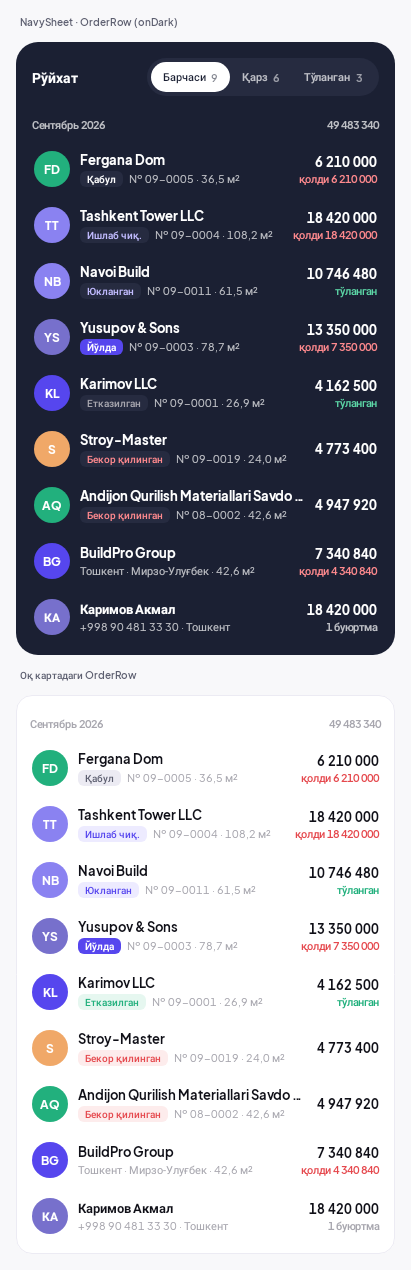
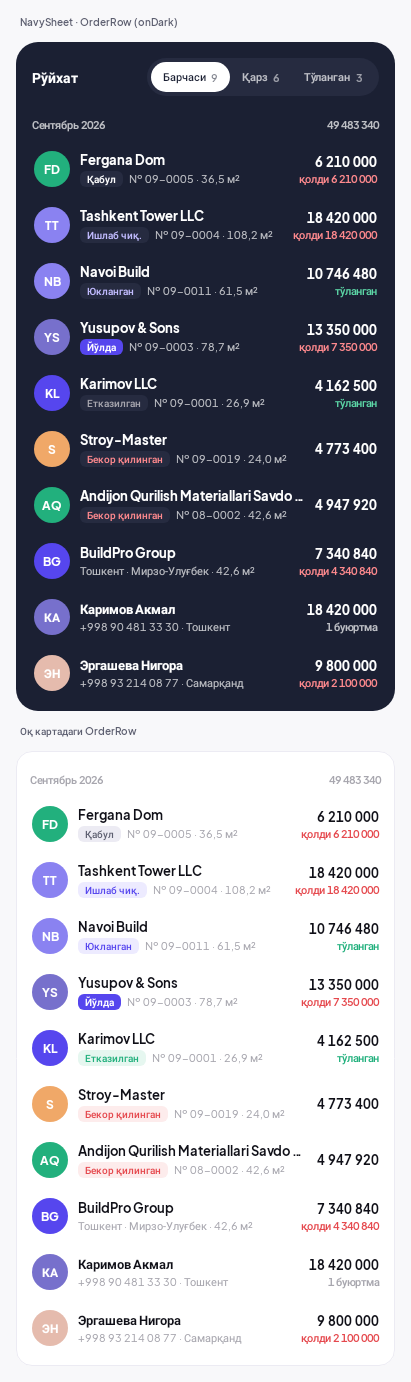
Fix(designsystem) · filled segment labels ellipsize; Task-2 review nits
A `fill = true` segment is only its third of the track, and «Тасдиқланган 3»
does not fit that third on a 360 dp phone at font scale 1,3 — the label had
`maxLines = 1` with no `overflow`, so it was cut mid-glyph. Ellipsize instead.
Hug mode is untouched (an item is exactly its label there), which is why
`ds_controls_light` is byte-identical.

Also the three nits Task 2's review carried:
- the BrandMark strings sat inside the DetailPanel comment's span;
- `OrderRow` gains a sample holding a debt AND a `trailing` line, drawing the
  rule that the debt wins and only one line is ever stated under the amount;
- the 75 dp compact-pill pin now says at the assert that Robolectric's
  substituted font is the reason it is not the prototype's 70.

New baselines: ds_segments_fill_w360, ds_segments_fill_font13.

diff --git a/android/core/designsystem/src/test/kotlin/uz/etalon/crm/core/designsystem/ControlsScreenshotTest.kt b/android/core/designsystem/src/test/kotlin/uz/etalon/crm/core/designsystem/ControlsScreenshotTest.kt
@@ -104,6 +104,25 @@ class ControlsScreenshotTest {
     }
 
     /**
+     * The filled track where it is actually tightest: a 360 dp phone, which is the narrowest
+     * device this app ships to. Each of the three tabs gets ~111 dp, and «Тасдиқланган 3» is
+     * wider than that — so this frame is where the label's ellipsis has to appear rather than a
+     * letter cut in half. Compare with the same row in `ds_controls_light`, where 411 dp fits it.
+     */
+    @Test @Config(qualifiers = "w360dp-h780dp") fun filledSegmentsW360() {
+        rule.setContent { EtalonTheme { FilledSegments() } }
+        rule.onRoot().captureRoboImage("screenshots/ds_segments_fill_w360.png")
+    }
+
+    /** The same 360 dp track at the accessibility font scale the app supports — the app's true
+     *  worst case, and the only frame in which the labels actually run out of room. This is what
+     *  the `overflow` on the label buys: «Тасдиқланган» ends in «…» instead of half a «н». */
+    @Test @Config(qualifiers = "w360dp-h780dp", fontScale = 1.3f) fun filledSegmentsLargeFont() {
+        rule.setContent { EtalonTheme { FilledSegments() } }
+        rule.onRoot().captureRoboImage("screenshots/ds_segments_fill_font13.png")
+    }
+
+    /**
      * What `fill = true` claims, in numbers rather than in a picture: the track spans its parent —
      * 379 dp inside a 411 dp frame's 16 dp card margins — and the tabs divide it evenly, so the
      * selected pill does not move when the operator switches tabs. Rounding may hand one tab a
@@ -125,6 +144,18 @@ class ControlsScreenshotTest {
         val trackDp = widths.sum() / rule.density.density + 8f
         assertTrue("the track measures %.1f dp, not the card's 379".format(trackDp), kotlin.math.abs(trackDp - 379f) <= 1f)
     }
+}
+
+/** `2b-payments.png`'s filter on its own, on the page margins the payments screen gives it. */
+@Composable
+private fun FilledSegments() = Column(
+    Modifier.fillMaxWidth().background(EtalonColors.page)
+        .padding(horizontal = EtalonSpace.cardMargin, vertical = 16.dp),
+    verticalArrangement = Arrangement.spacedBy(10.dp),
+) {
+    SegmentedControl(PAYMENT_SEGMENTS, selectedIndex = 0, onSelect = {}, onNavy = false, fill = true)
+    SegmentedControl(PAYMENT_SEGMENTS, selectedIndex = 1, onSelect = {}, onNavy = false, fill = true)
+    SegmentedControl(PAYMENT_SEGMENTS, selectedIndex = 2, onSelect = {}, onNavy = false, fill = true)
 }
 
 @Composable

diff --git a/android/core/designsystem/src/main/kotlin/uz/etalon/crm/core/designsystem/components/SegmentedControl.kt b/android/core/designsystem/src/main/kotlin/uz/etalon/crm/core/designsystem/components/SegmentedControl.kt
@@ -16,6 +16,7 @@ import androidx.compose.ui.Alignment
 import androidx.compose.ui.Modifier
 import androidx.compose.ui.draw.clip
 import androidx.compose.ui.semantics.Role
+import androidx.compose.ui.text.style.TextOverflow
 import androidx.compose.ui.unit.dp
 import uz.etalon.crm.core.designsystem.theme.EtalonColors
 import uz.etalon.crm.core.designsystem.theme.EtalonShapes
@@ -89,7 +90,12 @@ fun SegmentedControl(
             horizontalArrangement = if (fill) Arrangement.Center else Arrangement.Start,
             verticalAlignment = Alignment.CenterVertically,
         ) {
-            Text(item.label, style = EtalonType.labelSm, color = fg, maxLines = 1)
+            // Ellipsis, not clip: under `fill` an item is only its third of the track, and on a
+            // 360 dp phone at font scale 1,3 «Тасдиқланган» no longer fits it. A label cut
+            // mid-glyph reads as a rendering fault; a cut one that ends in «…» reads as a label.
+            // In hug mode the item is exactly its label, so this can never fire there — the
+            // `ds_controls_light` rows above the filled samples are byte-identical either way.
+            Text(item.label, style = EtalonType.labelSm, color = fg, maxLines = 1, overflow = TextOverflow.Ellipsis)
             if (item.count != null) {
                 Text(
                     "${item.count}",

diff --git a/android/core/designsystem/src/test/kotlin/uz/etalon/crm/core/designsystem/OrderRowScreenshotTest.kt b/android/core/designsystem/src/test/kotlin/uz/etalon/crm/core/designsystem/OrderRowScreenshotTest.kt
@@ -89,6 +89,14 @@ private val SAMPLES = listOf(
         "Каримов Акмал", null, "+998 90 481 33 30 · Тошкент", "18420000.00", null,
         paid = null, trailing = "1 буюртма",
     ),
+    // The rule `trailing` is bound by, drawn rather than merely documented: a row states ONE
+    // thing under its amount. This one is handed a debt AND a trailing line, and the debt wins —
+    // «қолди 2 100 000» in red, with «4 буюртма» nowhere on the row. If a future edit ever lets
+    // both through, this is the sample that shows two lines where the others show one.
+    Sample(
+        "Эргашева Нигора", null, "+998 93 214 08 77 · Самарқанд", "9800000.00", "2100000.00",
+        paid = null, trailing = "4 буюртма",
+    ),
 )
 
 /**
@@ -101,7 +109,7 @@ private val SAMPLES = listOf(
 @GraphicsMode(GraphicsMode.Mode.NATIVE)
 // Tall enough for both grounds to show every sample: the frame grows with SAMPLES, and a row that
 // falls off the bottom is a row no reviewer checks.
-@Config(sdk = [36], qualifiers = "w411dp-h1380dp")
+@Config(sdk = [36], qualifiers = "w411dp-h1500dp")
 class OrderRowScreenshotTest {
     @get:Rule val rule = createComposeRule()
 

diff --git a/android/core/designsystem/src/test/kotlin/uz/etalon/crm/core/designsystem/ButtonsScreenshotTest.kt b/android/core/designsystem/src/test/kotlin/uz/etalon/crm/core/designsystem/ButtonsScreenshotTest.kt
@@ -97,6 +97,10 @@ class ButtonsScreenshotTest {
         val pill = rule.onNodeWithText("Янги").fetchSemanticsNode().size.width
         val label = rule.onNodeWithText("Янги", useUnmergedTree = true).fetchSemanticsNode().size.width
         assertEquals(48f, (pill - label) / rule.density.density, 1f)
+        // 75, not the prototype's 70: Robolectric substitutes its own font for Plus Jakarta Sans,
+        // and «Янги» measures 27 dp in the substitute against 22 in the design file. The pin is
+        // therefore a regression guard for THIS renderer — read the chrome assert above for the
+        // figure the component actually owns, which no font can move.
         assertEquals(75f, pill / rule.density.density, 1f)
     }
 }
